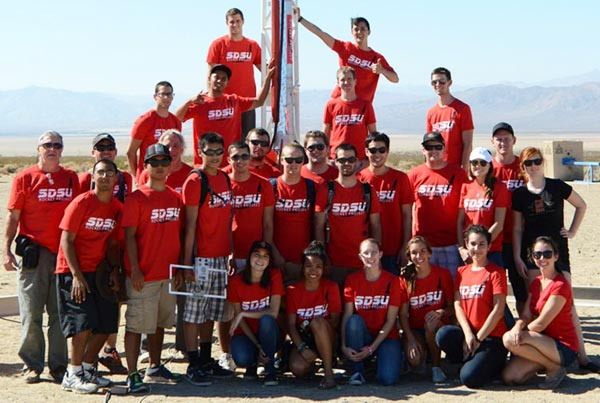
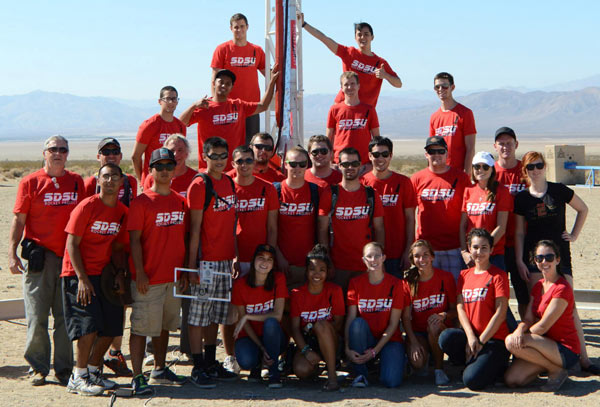
Added stars to the header background (special thanks to Daniel for his awesome photography skills). Re-added team photo (after I had previously butchered it w/ my horrible contrast adjustments).

diff --git a/css/common.css b/css/common.css
@@ -38,10 +38,13 @@ a:hover {
 	clear: both;
 }
 
-
 #header {
 	background-color: #000000;
-	background-image: url('../images/space.jpg');
+	background-image: url('../images/stars.jpg');
+	background-repeat: repeat;
+}
+#earth {
+	background-image: url('../images/earth.jpg');
 	background-position: center 25px;
 	background-repeat: no-repeat;
 }

diff --git a/css/home.css b/css/home.css
@@ -1,4 +1,4 @@
-#header {
+#earth {
 	background-position: center 415px;
 }
 

diff --git a/partials/header.php b/partials/header.php
@@ -1,3 +1,5 @@
+				<div id="earth">
+				
 				<div class="inner">
 					<a href="index" id="logo">
 						<img alt="San Diego State University" src="images/logo_sdsu.gif">
@@ -37,4 +39,6 @@
 					<div class="inner">
 <?php include('partials/menu.php'); ?>
 					</div>
+				</div>
+				
 				</div>
